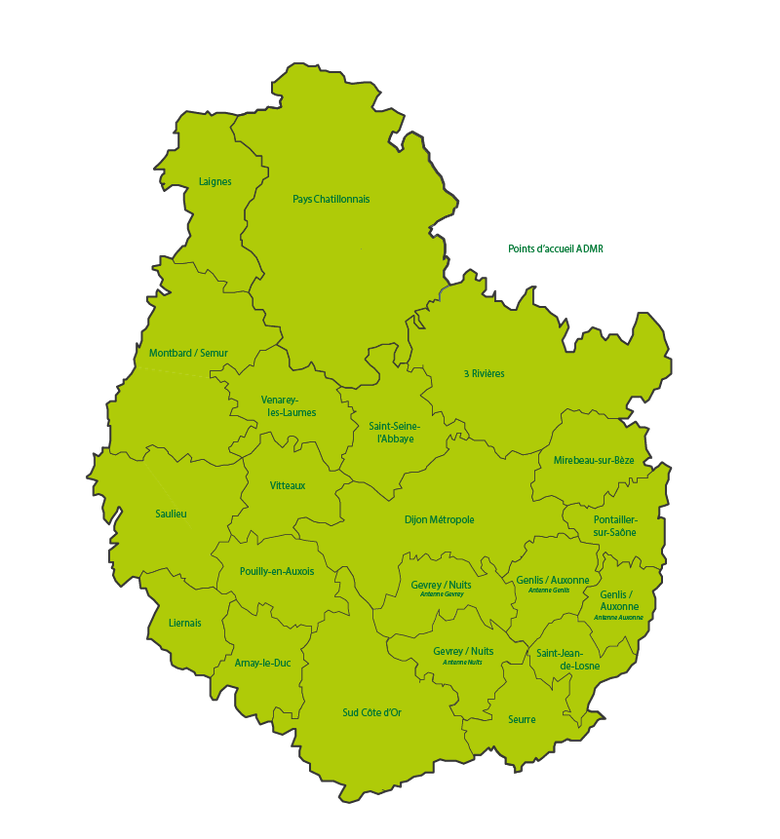
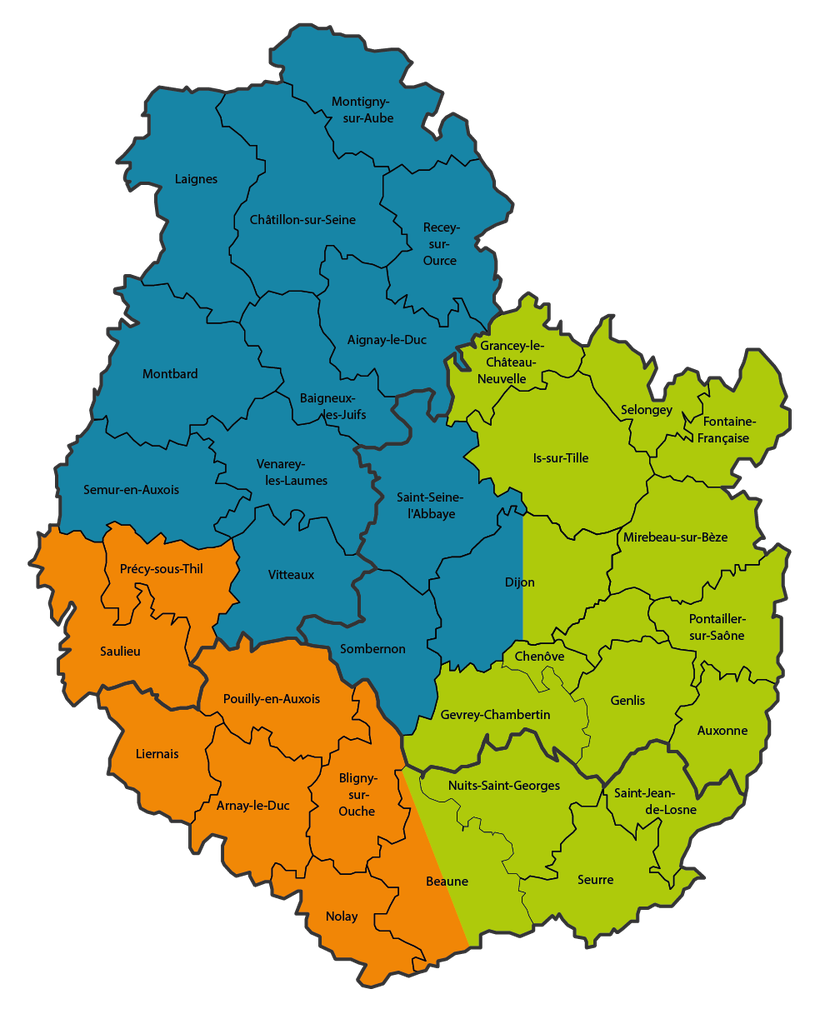
Add files via upload

diff --git a/benevolat.html b/benevolat.html
@@ -54,7 +54,6 @@
     <p class="kicker">Donnez du sens à votre temps libre</p>
     <h1 class="logo-benevolat-titre"><img src="images/logo-osons-benevolat.png" alt="Osons le bénévolat — ADMR"></h1>
     <p class="intro">Depuis 1945, l'ADMR, à travers son bénévolat, fait vivre une belle idée&nbsp;: partager un peu de son temps, de son expérience et de ses compétences pour enrichir la vie des autres… et la sienne. En Côte-d'Or, les bénévoles tissent du lien au plus près du terrain et font vivre la solidarité dans nos communes. Empathie, bienveillance, savoir-faire et bonne volonté&nbsp;: chacun apporte ce qu'il est&nbsp;!</p>
-    <span class="puce-chiffre"><strong>≈ 215 bénévoles</strong>&nbsp;engagés en Côte-d'Or</span>
   </section>
 
   <section class="stats-benevolat">
@@ -81,15 +80,15 @@
       <article class="article-benevolat">
         <div class="art-bloc">
           <div class="art-txt">
-            <h3>Être bénévole à l'ADMR, c'est prendre soin des autres, de son territoire…</h3>
+            <h3>être bénévole à l'ADMR, c'est prendre soin des autres, de son territoire…</h3>
             <p>En rejoignant l'ADMR, vous choisissez de vous engager pour une cause utile et proche de chez vous. Chaque action menée, chaque projet soutenu, chaque rencontre contribue à améliorer la qualité de vie des habitants de votre commune et à faire vivre la solidarité au cœur de nos territoires ruraux et urbains.</p>
-            <p>Prendre soin des autres, c'est permettre aux personnes âgées, aux familles, aux personnes en situation de handicap ou fragilisées de continuer à vivre chez eux, accompagnées avec bienveillance, et de rester pleinement intégrées dans la vie locale. Mais c'est aussi prendre soin de son territoire&nbsp;: préserver des services essentiels, renforcer le lien social, participer au dynamisme de la vie associative et contribuer à la création d'emplois locaux.</p>
+            <p>Prendre soin des autres, c'est permettre aux personnes accompagnées de continuer à vivre chez elles et de rester pleinement intégrées dans la vie locale. Prendre soin de son territoire, c'est préserver des services essentiels, renforcer le lien social, participer au dynamisme de la vie associative et contribuer à la création d'emplois locaux.</p>
           </div>
           <div class="art-media"><img src="images/benevolat-1.jpg" alt="Un moment de convivialité autour d'un café" loading="lazy"></div>
         </div>
         <div class="art-bloc">
           <div class="art-txt">
-            <h3>Être bénévole à l'ADMR, une bonne action aussi pour soi&nbsp;!</h3>
+            <h3>être bénévole à l'ADMR, une bonne action aussi pour soi&nbsp;!</h3>
             <p>Parce que l'engagement est une aventure humaine avant tout, être bénévole à l'ADMR, c'est aussi prendre soin de soi&nbsp;! C'est se sentir utile, développer de nouvelles compétences, faire de belles rencontres, partager ses expériences et s'épanouir dans un collectif porteur de sens.</p>
             <p>Le bénévolat à l'ADMR est bien plus qu'un simple engagement&nbsp;: c'est une action concrète au service des autres et du bien commun. En donnant de son temps, on reçoit aussi beaucoup&nbsp;: en sourires et en mercis qui valent mille mots&nbsp;!</p>
           </div>
@@ -100,7 +99,7 @@
         <h3 class="resume-titre">En résumé, être bénévole à l'ADMR c'est&nbsp;:</h3>
         <div class="resume-grid">
           <div class="resume-card"><span class="num">1</span><h4>Une action concrète</h4><p>au service des autres et de son territoire, au sein d'un collectif porteur de sens.</p></div>
-          <div class="resume-card"><span class="num">2</span><h4>Entretenir le lien</h4><p>social et faire vivre la solidarité au cœur de nos territoires ruraux et urbains.</p></div>
+          <div class="resume-card"><span class="num">2</span><h4>Entretenir le lien social</h4><p>et faire vivre la solidarité au cœur de nos territoires ruraux et urbains.</p></div>
           <div class="resume-card"><span class="num">3</span><h4>Se sentir utile</h4><p>développer des compétences, faire de belles rencontres, partager ses expériences et s'épanouir&nbsp;!</p></div>
           <div class="resume-card"><span class="num">4</span><h4>Un engagement</h4><p>accessible à tous, sans condition de diplôme ou d'expérience&nbsp;: à son rythme, chacun donne le temps qu'il souhaite pour rejoindre l'aventure ADMR&nbsp;!</p></div>
         </div>
@@ -137,48 +136,9 @@
       <div class="groupe-missions grp-vert">
         <div class="groupe-titre"><span class="cr">♥</span> Au cœur de l'accompagnement</div>
         <div class="missions-grid">
+          <article class="carte-mission"><h3><span class="ic">🏛</span> Président(e)</h3><p>Texte à venir.</p></article>
           <article class="carte-mission"><h3><span class="ic">🧮</span> Trésorier</h3><p>En complément de la Fédération qui gère les paies, la facturation et la comptabilité, je suis l'activité de l'association : je peux enregistrer les chèques, suivre le compte bancaire et réaliser le suivi des impayés.</p></article>
           <article class="carte-mission"><h3><span class="ic">✏</span> Secrétaire</h3><p>Je m'occupe de la préparation des réunions et des ordres du jour en lien avec le président, je gère les convocations et les comptes-rendus, et je peux aider pour diverses missions administratives.</p></article>
-        </div>
-      </div>
-    </div>
-  </section>
-
-  <section class="section-widget" id="missions">
-    <div class="wrap">
-      <h2>Missions proposées près de chez vous</h2>
-      <p class="intro">Découvrez les missions de bénévolat à pourvoir et proposez votre aide en quelques clics.</p>
-      <div class="widget-cadre">
-        <script src="https://cdn.benevolt.fr/embed/iframeResizer.js"></script>
-        <script>document.addEventListener('DOMContentLoaded', function () {iFrameResize({}, '#widgetbenevolat')})</script>
-        <iframe src="https://benevolt.admr.org/widget?lines=2" id="widgetbenevolat" width="100%" frameBorder="0" style="min-height: 320px;" scrolling="no"></iframe>
-      </div>
-      <div class="points-accueil">
-        <h3>Nos points d'accueil en Côte-d'Or</h3>
-        <p class="pa-intro">21 antennes proches de chez vous&nbsp;: trouvez celle de votre secteur.</p>
-        <img class="carte-antennes" src="images/carte-antennes.png" alt="Carte des points d'accueil ADMR en Côte-d'Or">
-        <div class="grille-locaux">
-        <article class="carte-locale"><h3>ADMR Arnay le Duc</h3><p class="adr">7 rue Président Carnot<br><strong>ARNAY LE DUC</strong></p><a class="tel" href="tel:+33380848739">03 80 84 87 39</a></article>
-        <article class="carte-locale"><h3>ADMR Genlis/Auxonne</h3><p class="adr">60 rue Masson<br><strong>AUXONNE</strong></p><a class="tel" href="tel:+33380655334">03 80 65 53 34</a></article>
-        <article class="carte-locale"><h3>ADMR Sud Côte d'Or</h3><p class="adr">2b Avenue Roger Duchet<br><strong>BEAUNE</strong></p><a class="tel" href="tel:+33380263710">03 80 26 37 10</a></article>
-        <article class="carte-locale"><h3>ADMR Pays Chatillonnais</h3><p class="adr">2 rue de la Libération<br><strong>CHÂTILLON SUR SEINE</strong></p><a class="tel" href="tel:+33380910916">03 80 91 09 16</a></article>
-        <article class="carte-locale"><h3>ADMR Dijon métropole</h3><p class="adr">60F avenue du 14 juillet<br><strong>CHENÔVE</strong></p><a class="tel" href="tel:+33380516981">03 80 51 69 81</a></article>
-        <article class="carte-locale"><h3>ADMR Genlis/Auxonne</h3><p class="adr">4 bis rue de la Gare<br><strong>GENLIS</strong></p><a class="tel" href="tel:+33380479536">03 80 47 95 36</a></article>
-        <article class="carte-locale"><h3>ADMR Gevrey/Nuits</h3><p class="adr">10 rue de Lattre de Tassigny<br><strong>GEVREY CHAMBERTIN</strong></p><a class="tel" href="tel:+33380397582">03 80 39 75 82</a></article>
-        <article class="carte-locale"><h3>ADMR 3 Rivières</h3><p class="adr">16 place Général Leclerc<br><strong>IS SUR TILLE</strong></p><a class="tel" href="tel:+33380855112">03 80 85 51 12</a></article>
-        <article class="carte-locale"><h3>ADMR Laignes</h3><p class="adr">Grande Rue<br><strong>LAIGNES</strong></p><a class="tel" href="tel:+33380814873">03 80 81 48 73</a></article>
-        <article class="carte-locale"><h3>ADMR Liernais</h3><p class="adr">Place Martin dosse<br><strong>LIERNAIS</strong></p><a class="tel" href="tel:+33380844956">03 80 84 49 56</a></article>
-        <article class="carte-locale"><h3>ADMR Mirebeau sur Bèze</h3><p class="adr">8 Place Général Viard<br><strong>MIREBEAU SUR BÈZE</strong></p><a class="tel" href="tel:+33380365774">03 80 36 57 74</a></article>
-        <article class="carte-locale"><h3>ADMR Montbard/Semur</h3><p class="adr">3 bis Rue carnot<br><strong>MONTBARD</strong></p><a class="tel" href="tel:+33380963370">03 80 96 33 70</a></article>
-        <article class="carte-locale"><h3>ADMR Gevrey/Nuits</h3><p class="adr">3 rue Jean Moulin<br><strong>NUITS ST GEORGES</strong></p><a class="tel" href="tel:+33380613730">03 80 61 37 30</a></article>
-        <article class="carte-locale"><h3>ADMR Pontailler sur Saône</h3><p class="adr">1 rue du 8 mai 1945<br><strong>PONTAILLER SUR SAÔNE</strong></p><a class="tel" href="tel:+33380361976">03 80 36 19 76</a></article>
-        <article class="carte-locale"><h3>ADMR Pouilly en Auxois</h3><p class="adr">place Pierre et Marie Curie<br><strong>POUILLY EN AUXOIS</strong></p><a class="tel" href="tel:+33380906476">03 80 90 64 76</a></article>
-        <article class="carte-locale"><h3>ADMR Soulieu</h3><p class="adr">3 rue du Tour des Fossés<br><strong>SAULIEU</strong></p><a class="tel" href="tel:+33380642168">03 80 64 21 68</a></article>
-        <article class="carte-locale"><h3>ADMR Montbard/Semur</h3><p class="adr">2ter Avenue de Ciney<br><strong>SEMUR EN AUXOIS</strong></p><a class="tel" href="tel:+33380915822">03 80 91 58 22</a></article>
-        <article class="carte-locale"><h3>ADMR Seurre</h3><p class="adr">22 rue du faubourg Saint-Georges<br><strong>SEURRE</strong></p><a class="tel" href="tel:+33380204958">03 80 20 49 58</a></article>
-        <article class="carte-locale"><h3>ADMR St Jean de Losne</h3><p class="adr">19 allée du Bastion des Charmilles<br><strong>ST JEAN DE LOSNE</strong></p><a class="tel" href="tel:+33380290143">03 80 29 01 43</a></article>
-        <article class="carte-locale"><h3>ADMR Venarey les Laumes</h3><p class="adr">5 avenue Jean Jaurès<br><strong>VENAREY LÈS LAUMES</strong></p><a class="tel" href="tel:+33380891793">03 80 89 17 93</a></article>
-        <article class="carte-locale"><h3>ADMR Vitteaux</h3><p class="adr">21 rue Edmé Millot — 21350 VITTEAUX<br><strong>VITTEAUX</strong></p><a class="tel" href="tel:+33380496980">03 80 49 69 80</a></article>
         </div>
       </div>
     </div>
@@ -196,9 +156,9 @@
       </div>
       <div class="art-bloc">
         <div class="art-txt accessible-txt">
-          <p>La fédération accompagne les bénévoles dans leurs missions. Un parcours d'intégration et des formations sont proposés tout au long de l'année pour découvrir le fonctionnement du réseau, mieux comprendre les missions de l'association et des bénévoles, acquérir de nouvelles compétences ou approfondir certains sujets. Des ateliers de réflexion collective et des événements inter-associatifs réunissent les différentes associations pour fédérer les équipes et partager leurs expériences. Ces temps forts favorisent la convivialité, la cohésion d'équipe et l'enrichissement mutuel.</p>
+          <p>La fédération accompagne les bénévoles dans leurs missions. Un parcours d'intégration et des formations sont proposés tout au long de l'année. Des ateliers de réflexion collective et des événements inter-associatifs réunissent les différentes associations pour fédérer les équipes et partager leurs expériences. Ces temps forts favorisent la convivialité, la cohésion d'équipe et l'enrichissement mutuel.</p>
           <p>Au sein des associations, des binômes sont proposés avec des bénévoles aguerris, ou des immersions au sein d'autres associations.</p>
-          <p>Que vous souhaitiez participer à la vie associative, contribuer à un projet local, prendre des responsabilités au sein d'un conseil d'administration ou simplement apporter votre énergie ponctuellement, vous trouverez toujours une équipe prête à vous accueillir et à vous accompagner.</p>
+          
         </div>
         <div class="art-media"><img src="images/benevolat-ensemble.jpg" alt="Un moment de complicité et d'entraide entre bénévoles" loading="lazy"></div>
       </div>
@@ -246,6 +206,66 @@
     </div>
   </section>
 
+  <section class="section-widget" id="missions">
+    <div class="wrap">
+      <h2>Missions proposées près de chez vous</h2>
+      <p class="intro">Découvrez les missions de bénévolat à pourvoir et proposez votre aide en quelques clics.</p>
+      <div class="widget-cadre">
+        <script src="https://cdn.benevolt.fr/embed/iframeResizer.js"></script>
+        <script>document.addEventListener('DOMContentLoaded', function () {iFrameResize({}, '#widgetbenevolat')})</script>
+        <iframe src="https://benevolt.admr.org/widget?lines=2" id="widgetbenevolat" width="100%" frameBorder="0" style="min-height: 320px;" scrolling="no"></iframe>
+      </div>
+      <div class="points-accueil">
+        <h3>Nos points d'accueil en Côte-d'Or</h3>
+        <p class="pa-intro">21 antennes proches de chez vous&nbsp;: trouvez celle de votre secteur.</p>
+        <figure class="carte-secteurs">
+        <div class="carte-inner">
+          <img class="carte-antennes" src="images/carte-antennes.png" alt="Carte des secteurs de vie associative de l'ADMR en Côte-d'Or">
+          <svg class="secteur-fleches" viewBox="0 0 820 1014" preserveAspectRatio="xMidYMid meet" aria-hidden="true">
+            <defs><filter id="rough-arrow" x="-30%" y="-30%" width="160%" height="160%"><feTurbulence type="turbulence" baseFrequency="0.02" numOctaves="2" seed="4" result="n"/><feDisplacementMap in="SourceGraphic" in2="n" scale="7"/></filter></defs>
+            <g filter="url(#rough-arrow)" fill="none" stroke-width="6" stroke-linecap="round" stroke-linejoin="round">
+              <circle cx="312" cy="365" r="9" fill="#1C82B0" stroke="none"/>
+              <path d="M 312 365 Q 120 250 -55 120 M -55 120 L -26 112 M -55 120 L -46 150" stroke="#1C82B0"/>
+              <circle cx="607" cy="629" r="9" fill="#7BA61F" stroke="none"/>
+              <path d="M 607 629 Q 790 560 890 538 M 890 538 L 861 528 M 890 538 L 866 560" stroke="#7BA61F"/>
+              <circle cx="254" cy="750" r="9" fill="#E0801F" stroke="none"/>
+              <path d="M 254 750 Q 80 800 -55 812 M -55 812 L -27 800 M -55 812 L -30 832" stroke="#E0801F"/>
+            </g>
+          </svg>
+        </div>
+        <div class="secteur-label bleu"><span class="nom">Alexandra</span><a class="tel" href="tel:+33624203392">06 24 20 33 92</a></div>
+        <div class="secteur-label vert"><span class="nom">Marine</span><a class="tel" href="tel:+33684058903">06 84 05 89 03</a></div>
+        <div class="secteur-label orange"><span class="nom">Christelle</span><a class="tel" href="tel:+33630905310">06 30 90 53 10</a></div>
+      </figure>
+        <div class="grille-locaux">
+        <article class="carte-locale"><h3>ADMR Arnay le Duc</h3><p class="adr">7 rue Président Carnot<br><strong>ARNAY LE DUC</strong></p><a class="tel" href="tel:+33380848739">03 80 84 87 39</a></article>
+        <article class="carte-locale"><h3>ADMR Genlis/Auxonne</h3><p class="adr">60 rue Masson<br><strong>AUXONNE</strong></p><a class="tel" href="tel:+33380655334">03 80 65 53 34</a></article>
+        <article class="carte-locale"><h3>ADMR Sud Côte d'Or</h3><p class="adr">2b Avenue Roger Duchet<br><strong>BEAUNE</strong></p><a class="tel" href="tel:+33380263710">03 80 26 37 10</a></article>
+        <article class="carte-locale"><h3>ADMR Pays Chatillonnais</h3><p class="adr">2 rue de la Libération<br><strong>CHÂTILLON SUR SEINE</strong></p><a class="tel" href="tel:+33380910916">03 80 91 09 16</a></article>
+        <article class="carte-locale"><h3>ADMR Dijon métropole</h3><p class="adr">60F avenue du 14 juillet<br><strong>CHENÔVE</strong></p><a class="tel" href="tel:+33380516981">03 80 51 69 81</a></article>
+        <article class="carte-locale"><h3>ADMR Genlis/Auxonne</h3><p class="adr">4 bis rue de la Gare<br><strong>GENLIS</strong></p><a class="tel" href="tel:+33380479536">03 80 47 95 36</a></article>
+        <article class="carte-locale"><h3>ADMR Gevrey/Nuits</h3><p class="adr">10 rue de Lattre de Tassigny<br><strong>GEVREY CHAMBERTIN</strong></p><a class="tel" href="tel:+33380397582">03 80 39 75 82</a></article>
+        <article class="carte-locale"><h3>ADMR 3 Rivières</h3><p class="adr">16 place Général Leclerc<br><strong>IS SUR TILLE</strong></p><a class="tel" href="tel:+33380855112">03 80 85 51 12</a></article>
+        <article class="carte-locale"><h3>ADMR Laignes</h3><p class="adr">Grande Rue<br><strong>LAIGNES</strong></p><a class="tel" href="tel:+33380814873">03 80 81 48 73</a></article>
+        <article class="carte-locale"><h3>ADMR Liernais</h3><p class="adr">Place Martin dosse<br><strong>LIERNAIS</strong></p><a class="tel" href="tel:+33380844956">03 80 84 49 56</a></article>
+        <article class="carte-locale"><h3>ADMR Mirebeau sur Bèze</h3><p class="adr">8 Place Général Viard<br><strong>MIREBEAU SUR BÈZE</strong></p><a class="tel" href="tel:+33380365774">03 80 36 57 74</a></article>
+        <article class="carte-locale"><h3>ADMR Montbard/Semur</h3><p class="adr">3 bis Rue carnot<br><strong>MONTBARD</strong></p><a class="tel" href="tel:+33380963370">03 80 96 33 70</a></article>
+        <article class="carte-locale"><h3>ADMR Gevrey/Nuits</h3><p class="adr">3 rue Jean Moulin<br><strong>NUITS ST GEORGES</strong></p><a class="tel" href="tel:+33380613730">03 80 61 37 30</a></article>
+        <article class="carte-locale"><h3>ADMR Pontailler sur Saône</h3><p class="adr">1 rue du 8 mai 1945<br><strong>PONTAILLER SUR SAÔNE</strong></p><a class="tel" href="tel:+33380361976">03 80 36 19 76</a></article>
+        <article class="carte-locale"><h3>ADMR Pouilly en Auxois</h3><p class="adr">place Pierre et Marie Curie<br><strong>POUILLY EN AUXOIS</strong></p><a class="tel" href="tel:+33380906476">03 80 90 64 76</a></article>
+        <article class="carte-locale"><h3>ADMR Soulieu</h3><p class="adr">3 rue du Tour des Fossés<br><strong>SAULIEU</strong></p><a class="tel" href="tel:+33380642168">03 80 64 21 68</a></article>
+        <article class="carte-locale"><h3>ADMR Montbard/Semur</h3><p class="adr">2ter Avenue de Ciney<br><strong>SEMUR EN AUXOIS</strong></p><a class="tel" href="tel:+33380915822">03 80 91 58 22</a></article>
+        <article class="carte-locale"><h3>ADMR Seurre</h3><p class="adr">22 rue du faubourg Saint-Georges<br><strong>SEURRE</strong></p><a class="tel" href="tel:+33380204958">03 80 20 49 58</a></article>
+        <article class="carte-locale"><h3>ADMR St Jean de Losne</h3><p class="adr">19 allée du Bastion des Charmilles<br><strong>ST JEAN DE LOSNE</strong></p><a class="tel" href="tel:+33380290143">03 80 29 01 43</a></article>
+        <article class="carte-locale"><h3>ADMR Venarey les Laumes</h3><p class="adr">5 avenue Jean Jaurès<br><strong>VENAREY LÈS LAUMES</strong></p><a class="tel" href="tel:+33380891793">03 80 89 17 93</a></article>
+        <article class="carte-locale"><h3>ADMR Vitteaux</h3><p class="adr">21 rue Edmé Millot — 21350 VITTEAUX<br><strong>VITTEAUX</strong></p><a class="tel" href="tel:+33380496980">03 80 49 69 80</a></article>
+        </div>
+      </div>
+    </div>
+  </section>
+
+
+
   <section class="sec-benevolat section-ensemble" id="ensemble">
     <div class="wrap">
       <img class="ensemble-photo" src="images/benevolat-accessible.jpg" alt="Les bénévoles de l'ADMR réunis, tous ensemble" loading="lazy">
@@ -253,7 +273,7 @@
       <p>L'ADMR a besoin de femmes et d'hommes engagés qui souhaitent agir concrètement pour leur territoire.</p>
       <p>Rejoindre l'ADMR, c'est donner un peu de son temps pour les autres, contribuer à l'avenir de son territoire et vivre une expérience humaine profondément enrichissante.</p>
       <p>Parce qu'en prenant soin des autres et de son territoire, on prend aussi soin de soi&nbsp;!</p>
-      <a class="btn-ensemble" href="#rdv">Je m'engage</a>
+      <a class="btn-ensemble" href="#rdv">Je me renseigne</a>
     </div>
   </section>
 

diff --git a/css/benevolat-fusion.css b/css/benevolat-fusion.css
@@ -395,3 +395,56 @@
 .page-benevolat .ph-temoin .meta .nom { font-family: var(--font-titre); font-weight: 700; color: var(--admr-vert); font-size: 1.08rem; line-height: 1.2; }
 .page-benevolat .ph-temoin .meta .role { color: #6a7860; font-size: .86rem; }
 .page-benevolat .ph-temoin .temoignage { text-align: left; color: #3f4d34; line-height: 1.6; font-size: .95rem; margin: 8px 0 0; font-style: normal; }
+
+/* ==========================================================================
+   AJUSTEMENTS DEMANDÉS (2) — surcouche finale
+   ========================================================================== */
+/* Titres d'article en orange (+ minuscule gérée dans le HTML) */
+.page-benevolat .article-benevolat .art-txt h3 { color: #F18700; text-transform: none; }
+
+/* Paragraphes justifiés (article, rôle, accessible) */
+.page-benevolat .art-txt p { text-align: justify; }
+.page-benevolat .role-texte p { font-style: normal; text-align: justify; }
+.page-benevolat .accessible-txt p { text-align: justify; }
+
+/* « Au cœur de… » : écriture colorée (humain=bleu, association=orange, accompagnement=vert) */
+.page-benevolat .grp-bleu   .groupe-titre { color: #004B9C; border-bottom-color: #004B9C; }
+.page-benevolat .grp-bleu   .groupe-titre .cr { color: #004B9C; }
+.page-benevolat .grp-orange .groupe-titre { color: #F18700; border-bottom-color: #F18700; }
+.page-benevolat .grp-orange .groupe-titre .cr { color: #F18700; }
+.page-benevolat .grp-vert   .groupe-titre { color: #00998B; border-bottom-color: #00998B; }
+.page-benevolat .grp-vert   .groupe-titre .cr { color: #00998B; }
+/* Cartes de mission assorties (remplace le magenta de l'humain par du bleu) */
+.page-benevolat .grp-bleu   .carte-mission { border-top-color: #004B9C; }
+.page-benevolat .grp-bleu   .carte-mission h3 { color: #004B9C; }
+.page-benevolat .grp-orange .carte-mission { border-top-color: #F18700; }
+.page-benevolat .grp-orange .carte-mission h3 { color: #F18700; }
+.page-benevolat .grp-vert   .carte-mission { border-top-color: #00998B; }
+.page-benevolat .grp-vert   .carte-mission h3 { color: #00998B; }
+
+/* ==========================================================================
+   Carte des secteurs + flèches manuscrites vers les référentes
+   ========================================================================== */
+.page-benevolat .carte-secteurs { position: relative; max-width: 900px; margin: 6px auto 24px; padding: 22px 140px; }
+.page-benevolat .carte-secteurs .carte-inner { position: relative; }
+.page-benevolat .carte-secteurs .carte-antennes { display: block; width: 100%; margin: 0; }
+.page-benevolat .secteur-fleches { position: absolute; inset: 0; width: 100%; height: 100%; overflow: visible; pointer-events: none; }
+.page-benevolat .secteur-label { position: absolute; width: 132px; text-align: center; line-height: 1.1; }
+.page-benevolat .secteur-label .nom { font-family: 'Permanent Marker', cursive; font-size: 1.4rem; display: block; }
+.page-benevolat .secteur-label .tel { font-weight: 800; font-size: .95rem; text-decoration: none; white-space: nowrap; }
+.page-benevolat .secteur-label.bleu, .page-benevolat .secteur-label.bleu .tel { color: #1C82B0; }
+.page-benevolat .secteur-label.vert, .page-benevolat .secteur-label.vert .tel { color: #6F9C1B; }
+.page-benevolat .secteur-label.orange, .page-benevolat .secteur-label.orange .tel { color: #D97A1B; }
+.page-benevolat .secteur-label.bleu   { left: 2px;  top: 8%; }
+.page-benevolat .secteur-label.vert   { right: 2px; top: 48%; }
+.page-benevolat .secteur-label.orange { left: 2px;  top: 66%; }
+@media (max-width: 760px) {
+  .page-benevolat .carte-secteurs { padding: 10px; }
+  .page-benevolat .secteur-fleches { display: none; }
+  .page-benevolat .secteur-label { position: static; width: auto; display: flex; gap: 10px; align-items: baseline; justify-content: center; margin-top: 6px; }
+  .page-benevolat .secteur-label .nom { font-size: 1.2rem; }
+  .page-benevolat .secteur-label::before { content: ""; width: 14px; height: 14px; border-radius: 50%; align-self: center; }
+  .page-benevolat .secteur-label.bleu::before { background: #1C82B0; }
+  .page-benevolat .secteur-label.vert::before { background: #6F9C1B; }
+  .page-benevolat .secteur-label.orange::before { background: #D97A1B; }
+}
